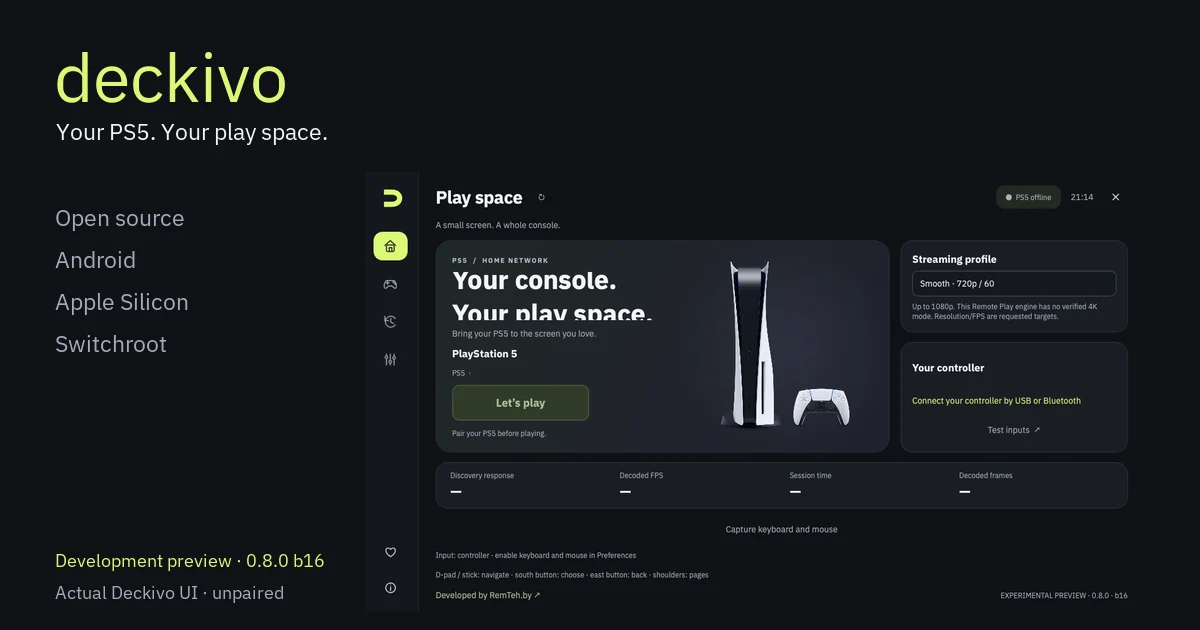
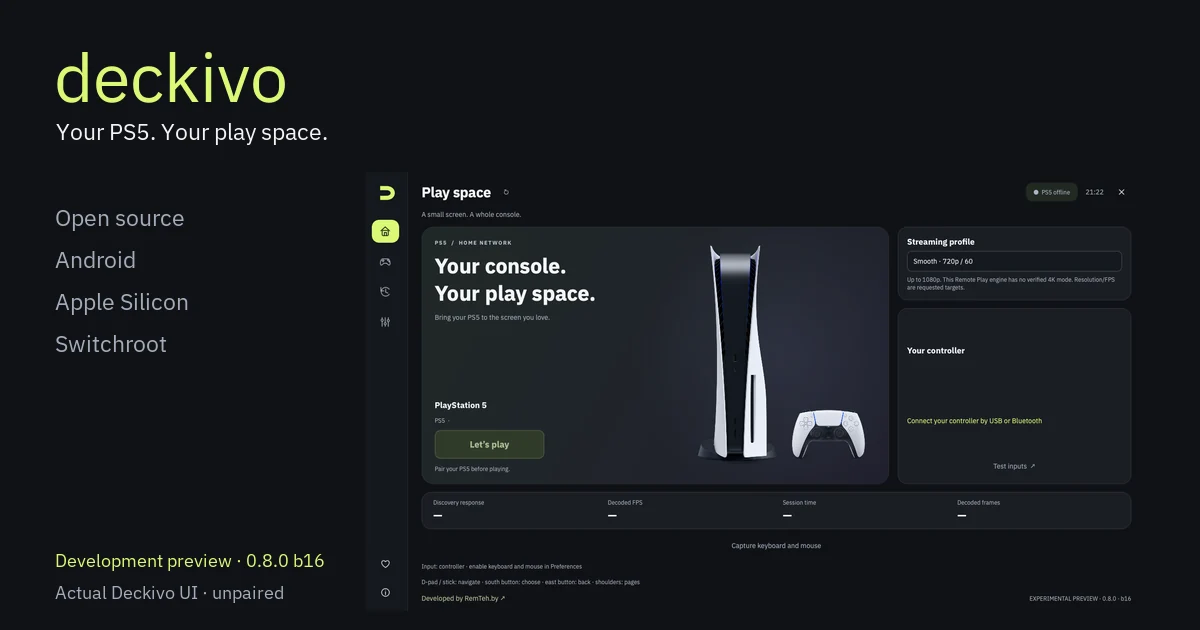
Capture current app at a size that keeps all text visible

diff --git a/scripts/build-site-assets.py b/scripts/build-site-assets.py
@@ -4,7 +4,7 @@ import argparse
 import hashlib
 import json
 from pathlib import Path
-from PIL import Image,ImageDraw,ImageFont
+from PIL import Image,ImageDraw,ImageFont,ImageOps
 
 ROOT=Path(__file__).resolve().parents[1]
 
@@ -50,7 +50,8 @@ def main():
  preview_webp=args.assets/'deckivo-ui.webp';preview_avif=args.assets/'deckivo-ui.avif';cover_path=args.assets/'github-cover.webp'
  image.save(preview_webp,quality=84,method=6);image.save(preview_avif,quality=65)
  cover=Image.new('RGB',(1200,630),'#101216');draw=ImageDraw.Draw(cover);large=ImageFont.truetype(str(font),68);small=ImageFont.truetype(str(font),23);caption=ImageFont.truetype(str(font),18)
- draw.text((54,32),'deckivo',font=large,fill='#DAF975');draw.text((56,116),'Your PS5. Your play space.',font=small,fill='#F3F5F7');cover.paste(image.resize((780,439),Image.Resampling.LANCZOS),(365,172));draw.text((55,202),'Open source\nAndroid\nApple Silicon\nSwitchroot',font=small,fill='#A4ACBA',spacing=18);draw.text((55,548),f"Development preview · {metadata['version']} b{metadata['build']}",font=caption,fill='#DAF975');draw.text((55,580),'Actual Deckivo UI · unpaired',font=caption,fill='#A4ACBA');cover.save(cover_path,quality=87,method=6)
+ preview_box=(780,439);preview=ImageOps.contain(image,preview_box,Image.Resampling.LANCZOS);preview_position=(365+(preview_box[0]-preview.width)//2,172+(preview_box[1]-preview.height)//2)
+ draw.text((54,32),'deckivo',font=large,fill='#DAF975');draw.text((56,116),'Your PS5. Your play space.',font=small,fill='#F3F5F7');cover.paste(preview,preview_position);draw.text((55,202),'Open source\nAndroid\nApple Silicon\nSwitchroot',font=small,fill='#A4ACBA',spacing=18);draw.text((55,548),f"Development preview · {metadata['version']} b{metadata['build']}",font=caption,fill='#DAF975');draw.text((55,580),'Actual Deckivo UI · unpaired',font=caption,fill='#A4ACBA');cover.save(cover_path,quality=87,method=6)
  manifest={'schema':1,'version':metadata['version'],'build':metadata['build'],'source_commit':metadata['source_commit'],'source_dirty':metadata.get('source_dirty',False),'ui_source_sha256':metadata['ui_source_sha256'],'capture_state':'unpaired','development_preview':True,'captured_at':metadata['captured_at'],'images':{path.name:file_record(path) for path in (preview_webp,preview_avif,cover_path)}}
  (args.assets/'screenshot.json').write_text(json.dumps(manifest,ensure_ascii=False,indent=2)+'\n')
  print(f"Real Deckivo {manifest['version']} b{manifest['build']} capture assets generated; font {'unchanged' if args.capture_only else 'generated'}.")

diff --git a/scripts/capture-preview.py b/scripts/capture-preview.py
@@ -50,7 +50,10 @@ def main():
  parser.add_argument('--source-root',type=Path,default=ROOT,help='Deckivo source checkout whose real Qt UI is rendered')
  parser.add_argument('--output',type=Path,default=ROOT/'build/deckivo-ui.png',help='capture PNG destination')
  parser.add_argument('--metadata',type=Path,default=ROOT/'build/deckivo-ui.capture.json',help='capture metadata destination')
+ parser.add_argument('--width',type=int,default=1600,help='captured Qt window width (default: 1600)')
+ parser.add_argument('--height',type=int,default=900,help='captured Qt window height (default: 900)')
  args=parser.parse_args();source_root=args.source_root.expanduser().resolve();desktop=source_root/'desktop/linux'
+ if args.width<1000 or args.height<650:raise SystemExit('Capture dimensions must satisfy the application minimum of 1000x650')
  required=(desktop/'launcher.py',desktop/'session.py',desktop/'build_meta.py',desktop/'assets/fonts/IBMPlexSans.ttf')
  missing=[str(path) for path in required if not path.is_file()]
  if missing:raise SystemExit('Invalid Deckivo source root; missing: '+', '.join(missing))
@@ -64,7 +67,7 @@ def main():
   isolated=Path(directory);data=isolated/'data';private=isolated/'private';config=private/'preferences.json';engine=private/'engine/Chiaki/Chiaki.conf'
   patches=(patch.object(launcher,'DATA',data),patch.object(launcher,'PRIVATE',private),patch.object(launcher,'CONFIG',config),patch.object(storage,'DATA',data),patch.object(storage,'PRIVATE',private),patch.object(storage,'CONFIG',config),patch.object(storage,'ENGINE_CONFIG',engine),patch.object(launcher.Deckivo,'refresh',lambda self:None),patch.object(launcher,'ControllerMonitor',controller.ControllerMonitor),patch.object(update_ui,'initialize',lambda self:None),patch.object(support,'maybe_thank',lambda self:None))
   with patches[0],patches[1],patches[2],patches[3],patches[4],patches[5],patches[6],patches[7],patches[8],patches[9],patches[10]:
-   window=launcher.Deckivo();window.resize(1280,720);window.show();app.processEvents();pixmap=window.grab()
+   window=launcher.Deckivo();window.resize(args.width,args.height);window.show();app.processEvents();pixmap=window.grab()
    if pixmap.isNull() or not pixmap.save(str(args.output),'PNG'):raise RuntimeError('Qt window capture failed')
    window.close();app.processEvents()
  paths=ui_sources(source_root);commit=git_value(source_root,'rev-parse','HEAD');dirty=bool(git_value(source_root,'status','--porcelain','--untracked-files=no'))

diff --git a/README.md b/README.md
@@ -1,4 +1,4 @@
-<p align="center"><a href="https://remteh-by.github.io/remteh-remote-play/"><img src="website/assets/github-cover.webp?v=0.8.0-b16" alt="Deckivo — actual desktop interface, development preview 0.8.0 build 16" width="100%"></a></p>
+<p align="center"><a href="https://remteh-by.github.io/remteh-remote-play/"><img src="website/assets/github-cover.webp?v=e059e0c43d2b" alt="Deckivo — actual desktop interface, development preview 0.8.0 build 16" width="100%"></a></p>
 <p align="center"><sub>Actual desktop interface · development preview 0.8.0 build 16. Public downloads remain 0.6.1 until the next release.</sub></p>
 
 <p align="center"><strong>Open-source PS5 Remote Play on Nintendo Switch OLED (Android), Android devices and Apple Silicon Macs. Switchroot Ubuntu preview.</strong><br>Developed by <a href="https://remteh.by/">RemTeh.by</a> · Built on Chiaki / chiaki-ng / Android Extended</p>
